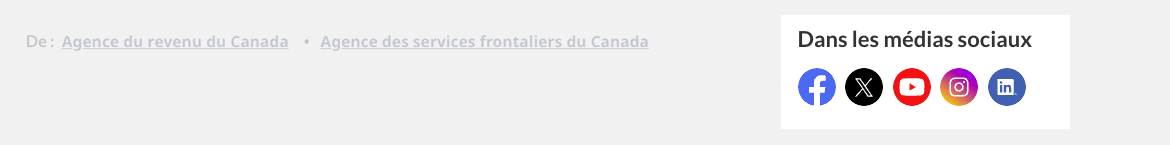
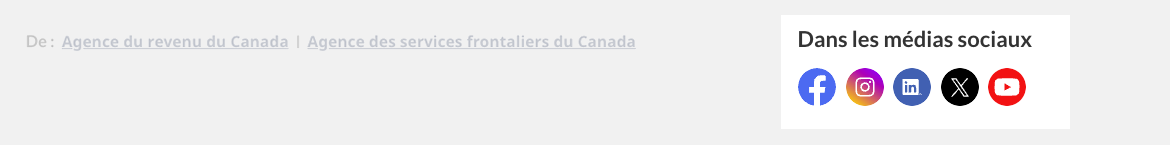
Deploy preview for PR 496 🛫

Changed region(s): [[0.7077, 0.469, 0.8923, 0.7448], [0.2462, 0.2483, 0.5538, 0.3586]]

diff --git a/pr-preview/pr-496/guide-redaction/index.html b/pr-preview/pr-496/guide-redaction/index.html
@@ -314,8 +314,8 @@
       <p>La rédaction épicène devrait être votre pratique habituelle.</p>
       <p>Pour plus de conseils sur l'écriture inclusive, consultez les lignes directrices et ressources du Portail linguistique du Canada&nbsp;:</p>
       <ul>
-        <li><a href="https://www.noslangues-ourlanguages.gc.ca/fr/cles-de-la-redaction/ecriture-inclusive-lignes-directrices-ressources">Écriture inclusive – Lignes directrices et ressources</a>, du Bureau de la traduction (en français seulement).</li>
-        <li><a href="https://www.noslangues-ourlanguages.gc.ca/en/writing-tips-plus/inclusive-writing-guidelines-resources">Inclusive writing in English</a> (en anglais seulement).</li>
+        <li><a href="https://www.noslangues-ourlanguages.gc.ca/fr/cles-de-la-redaction/ecriture-inclusive-lignes-directrices-ressources">Écriture inclusive – Lignes directrices et ressources (en français seulement)</a>, du Bureau de la traduction.</li>
+        <li><a href="https://www.noslangues-ourlanguages.gc.ca/en/writing-tips-plus/inclusive-writing-guidelines-resources"><span lang="en">Inclusive writing in English</span> (en anglais seulement)</a>.</li>
       </ul>
     </section>
     <section id="wp1-2-2">
@@ -344,7 +344,7 @@
       <p>Votre contenu sera lu sur des écrans de toutes tailles. Les écrans de téléphone mobile et de tablettes électroniques affichent moins de contenu à la fois que les écrans d'ordinateur de bureau ou portatif. Les utilisateurs de petits écrans doivent donc&nbsp;:</p>
       <ul>
         <li>faire plus d'efforts que d'autres pour accéder à la même quantité d'information;</li>
-        <li>se fier à leur mémoire pour <a href="https://www.nngroup.com/articles/mobile-ux/">se rappeler l'information non visible à l'écran</a> (en anglais seulement).</li>
+        <li>se fier à leur mémoire pour <a href="https://www.nngroup.com/articles/mobile-ux/">se rappeler l'information non visible à l'écran (en anglais seulement)</a>.</li>
       </ul>
     </section>
   </section>
@@ -660,8 +660,8 @@
       <li><a href="http://www.bing.com/toolbox/keywords">Bing recherche de mots clés (compte Microsoft requis)</a></li>
       <li><a href="https://trends.google.fr/trends/">Tendances de recherche Google Trends (aucun compte requis)</a></li>
       <li><a href="https://business.google.com/ca-fr/google-ads/">Google Keyword Planner (compte GoogleAdWords requis)</a></li>
-      <li><a href="https://www.thehoth.com/google-keyword-planner?">Hoth Free Google Keyword Planner (en anglais seulement; aucun compte requis)</a></li>
-      <li><a href="https://moz.com/explorer">Moz Keyword Explorer (en anglais seulement)</a></li>
+      <li><a href="https://www.thehoth.com/google-keyword-planner?"><span lang="en">Hoth Free Google Keyword Planner</span> (en anglais seulement; aucun compte requis)</a></li>
+      <li><a href="https://moz.com/explorer"><span lang="en">Moz Keyword Explorer</span> (en anglais seulement)</a></li>
     </ul>
     <p>Certains de ces outils ne sont offerts qu’en anglais, et d’autres sont offerts en français si votre navigateur est configuré en français.</p>
     <p>Consultez vos données d’analyse Web pour savoir quels termes votre public utilise pour chercher du contenu connexe.</p>
@@ -888,7 +888,7 @@
       <p>Nommez l'autre organisation par son nom lorsque votre contenu y fait référence.</p>
       <h5>Exemple d'énoncé faisant référence à une tierce partie</h5>
       <p><strong>Écrivez</strong>&nbsp;: Si vous prévoyez <a href="https://www.cbp.gov/travel">vous rendre aux États-Unis ou transiter par les États-Unis</a>, (en anglais seulement), renseignez-vous sur les règles édictées par l'organisme U.S. Customs and Border Protection. <br />
-        <strong>Au lieu de</strong>&nbsp;: Si vous prévoyez vous rendre aux États Unis, travailler, étudier, mener des activités commerciales, immigrer ou transiter par les États Unis, vous pourriez faire l'objet d'une inspection ou être tenus de soumettre des documents de voyage. Visitez le <a href="http://www.cbp.gov/travel">site Web de U.S. Customs and Border Protection</a> (en anglais seulement) pour des renseignements sur la U.S. Western Hemisphere Travel Initiative et les exigences pour entrer aux États Unis. </p>
+        <strong>Au lieu de</strong>&nbsp;: Si vous prévoyez vous rendre aux États Unis, travailler, étudier, mener des activités commerciales, immigrer ou transiter par les États Unis, vous pourriez faire l'objet d'une inspection ou être tenus de soumettre des documents de voyage. Visitez le <a href="http://www.cbp.gov/travel"><span lang="en">site Web de U.S. Customs and Border Protection</span> (en anglais seulement)</a> pour des renseignements sur la U.S. Western Hemisphere Travel Initiative et les exigences pour entrer aux États Unis.</p>
     </section>
     <h4>Voyez comment cette règle s’applique en anglais&nbsp;:</h4>
     <ul>
@@ -2438,7 +2438,7 @@
             <li><a href="#">Texte en hyperlien (en inuktitut seulement).</a></li>
             <li><a href="#">Texte en hyperlien (en espagnol et portugais seulement).</a></li>
           </ul>
-          <p><strong>Exemple</strong>&nbsp;: L’article 508 révisé, la norme EN 301 549 ou les <span lang="en"><a href="https://www.w3.org/TR/WCAG/">Web Content Accessibility Guidelines (WCAG) (en anglais seulement)</a></span>.</p>
+          <p><strong>Exemple</strong>&nbsp;: L’article 508 révisé, la norme EN 301 549 ou les <a href="https://www.w3.org/TR/WCAG/"><span lang="en">Web Content Accessibility Guidelines (WCAG)</span> (en anglais seulement)</a>.</p>
           <p class="mrgn-tp-md">Suivez la même structure pour les pages en anglais qui renvoient à un contenu en français. Par exemple&nbsp;:</p>
           <ul>
             <li><a href="https://www.quebec.ca/en/health/health-system-and-services/pre-hospital-emergency-services/what-to-do-emergency-requiring-ambulance#c244124">Utilisation d’un défibrillateur externe automatisé (DEA) (en français seulement)</a></li>
@@ -2446,12 +2446,12 @@
           <h5>Le lien renvoi à un contenu audio ou vidéo</h5>
           <p>Précisez la durée du contenu entre parenthèses. Par exemple&nbsp;:</p>
           <ul>
-            <li><span lang="en"><a href="https://www.youtube.com/watch?v=GbDT6FxQ6mk">Using Magnifier in Windows: At a Glance - Vidéo YouTube (2:07 minutes) (en anglais seulement)</a></span>.</li>
+            <li><a href="https://www.youtube.com/watch?v=GbDT6FxQ6mk"><span lang="en">Using Magnifier in Windows: At a Glance - Vidéo YouTube (2:07 minutes)</span> (en anglais seulement)</a>.</li>
           </ul>
           <h5>Lorsque plus d’une de ces situations s’appliquent</h5>
           <p>Ajoutez toutes les informations contextuelles nécessaires entre parenthèses. Par exemple&nbsp;:</p>
           <ul>
-            <li><a href="https://assets.publishing.service.gov.uk/media/5a81a5d3ed915d74e33ff566/OS_Form_010.pdf">Complétez votre demande : United Kingdom passport application (en anglais seulement, PDF, 214 Ko, 4 pages)</a>. </li>
+            <li><a href="https://assets.publishing.service.gov.uk/media/5a81a5d3ed915d74e33ff566/OS_Form_010.pdf">Complétez votre demande : <span lang="en">United Kingdom passport application</span> (en anglais seulement, PDF, 214 Ko, 4 pages)</a>. </li>
           </ul>
     </section>
     <h4>Voyez comment cette règle s’applique en anglais&nbsp;:</h4>
@@ -3284,18 +3284,18 @@
     <li><a href="http://www.statcan.gc.ca/daily-quotidien/160518/dq160518b-fra.htm">Étude&nbsp;: Littératie et numératie chez les Premières Nations vivant hors réserve et les Métis, 2012</a>, Statistique Canada</li>
     <li><a href="https://tecfa.unige.ch/tecfa/maltt/cosys-2/textes/ergolab_lisibilite_web.pdf">Faciliter la lecture d'informations sur le web (PDF, 183 Ko)</a>, Ergolab</li>
     <li><a href="http://w3.uqo.ca/litteratie/documents/guide2011_000.pdf">Guide de rédaction pour une information accessible (PDF, 3.9 Mo)</a>, Équipe de recherche en littératie et inclusion</li>
-    <li><a href="https://www.nngroup.com/articles/how-users-read-on-the-web/">How Users Read on the Web</a> (en anglais seulement), Jakob Nielsen, Nielsen Norman Group</li>
+    <li><a href="https://www.nngroup.com/articles/how-users-read-on-the-web/"><span lang="en">How Users Read on the Web</span> (en anglais seulement)</a>, Jakob Nielsen, Nielsen Norman Group</li>
     <li><a href="http://bdl.oqlf.gouv.qc.ca/bdl/gabarit_bdl.asp?t1=1&amp;id=4208">Impératif et infinitif</a>, Office québécois de la langue française</li>
     <li><a href="http://ccat-ctac.org/CMFiles/Publication/CCAT-FR.pdf">Introduction à la justice administrative et au langage clair (PDF, 799 Ko)</a>, Conseil des tribunaux administratifs canadiens</li>
-    <li><a href="https://www.gov.uk/guidance/content-design/what-is-content-design">Introduction to content design</a> (en anglais seulement), Government Digital Service, GOV.UK</li>
+    <li><a href="https://www.gov.uk/guidance/content-design/what-is-content-design"><span lang="en">Introduction to content design</span> (en anglais seulement)</a>, Government Digital Service, GOV.UK</li>
     <li><a href="http://www.statcan.gc.ca/pub/89-555-x/89-555-x2013001-fra.htm">Les compétences au Canada&nbsp;: Premiers résultats du Programme pour l'évaluation internationale des compétences des adultes</a>, Statistique Canada</li>
     <!-- <li><a href="http://www.vortexsolution.com/lexique-web-montreal.html">Lexique Web</a>, Vortex solution</li> no link available -->
-    <li><a href="http://abclifeliteracy.ca/workplace-literacy-facts">Literacy and Numeracy in Canada</a> (en anglais seulement), ABC Life Literacy Canada</li>
-    <li><a href="https://www.nngroup.com/articles/writing-for-lower-literacy-users/">Lower-Literacy Users: Writing for a Broad Consumer Audience</a> (en anglais seulement), Jakob Nielsen, Nielsen Norman Group</li>
-    <li><a href="https://www.nngroup.com/articles/minimize-cognitive-load/">Minimize Cognitive Load to Maximize Usability</a> (en anglais seulement), Kathryn Whitenton, Nielsen Norman Group</li>
-    <li><a href="https://www.nngroup.com/articles/mobile-ux/">Mobile User Experience: Limitations and Strengths</a> (en anglais seulement), Raluca Budio, Nielsen Norman Group</li>
-    <li><a href="http://plainlanguagenetwork.org/">Plain Language Association International</a> (en anglais seulement)</li>
-    <li><a href="https://www.navigator.ca/plain-language-please-heres-why-to-avoid-marketese-online/">Plain Language, Please! Here's Why to Avoid "Marketese" Only</a> (en anglais seulement), Sarah Bauer</li>
+    <li><a href="http://abclifeliteracy.ca/workplace-literacy-facts"><span lang="en">Literacy and Numeracy in Canada</span> (en anglais seulement)</a>, ABC Life Literacy Canada</li>
+    <li><a href="https://www.nngroup.com/articles/writing-for-lower-literacy-users/"><span lang="en">Lower-Literacy Users: Writing for a Broad Consumer Audience</span> (en anglais seulement)</a>, Jakob Nielsen, Nielsen Norman Group</li>
+    <li><a href="https://www.nngroup.com/articles/minimize-cognitive-load/"><span lang="en">Minimize Cognitive Load to Maximize Usability</span> (en anglais seulement)</a>, Kathryn Whitenton, Nielsen Norman Group</li>
+    <li><a href="https://www.nngroup.com/articles/mobile-ux/"><span lang="en">Mobile User Experience: Limitations and Strengths</span> (en anglais seulement)</a>, Raluca Budio, Nielsen Norman Group</li>
+    <li><a href="http://plainlanguagenetwork.org/"><span lang="en">Plain Language Association International</span> (en anglais seulement)</a></li>
+    <li><a href="https://www.navigator.ca/plain-language-please-heres-why-to-avoid-marketese-online/"><span lang="en">Plain Language, Please! Here's Why to Avoid "Marketese" Only</span> (en anglais seulement)</a>, Sarah Bauer</li>
     <li><a href="http://publications.gc.ca/site/fra/9.678667/publication.html">Pour un style clair et simple</a>, Travaux publics et services gouvernementaux Canada (réimprimé en 2003)</li>
     <li><a href="http://www.noslangues-ourlanguages.gc.ca/index-fra.php">Portail linguistique du Canada</a>, gouvernement du Canada</li>
     <!-- <li><a href="http://www.uottawa.ca/uoweb/sites/www.uottawa.ca.uoweb/files/principes_et_directives_lies_a_la_redaction_pour_le_web.pdf">Principes et directives liés à la rédaction pour le Web</a> (PDF), Université d'Ottawa</li> no link available -->
@@ -3303,12 +3303,12 @@
     <li><a href="http://www.w3.org/Translations/WCAG20-fr/">Règles pour l'accessibilité des contenus Web (WCAG) 2.0</a>, World Wide Web Consortium (W3C)</li>
     <li><a href="http://www.publications.gc.ca/site/eng/9.639699/publication.html">Tendons la main&nbsp;: guide pour bien communiquer avec les aînés autochtones</a>, Santé Canada</li>
     <li><a href="http://www.btb.termiumplus.gc.ca/tpv2alpha/alpha-fra.html?lang=fra&amp;index=frt">TERMIUM Plus</a>®, Bureau de la traduction</li>
-    <li><a href="http://www.musanim.com/miller1956/">The Magical Number Seven, Plus or Minus Two: Some Limits on Our Capacity for Processing</a> (en anglais seulement), George A. Miller</li>
+    <li><a href="http://www.musanim.com/miller1956/"><span lang="en">The Magical Number Seven, Plus or Minus Two: Some Limits on Our Capacity for Processing</span> (en anglais seulement)</a>, George A. Miller</li>
     <li><a href="https://www.oqlf.gouv.qc.ca/ressources/bibliotheque/officialisation/termes-officialises-index-thematique.aspx">Vocabulaire d'Internet </a> – Banque de terminologie du Québec, Index des termes français, Office québécois de la langue française</li>
     <!-- <li><a href="https://gathercontent.com/blog/use-pair-writing-to-collaborate-with-subject-matter-experts">Use pair writing to collaborate with subject matter experts</a> (en anglais seulement), Jonathan Kahn, GatherContent</li> no link available -->
-    <li><a href="http://www.searchenginepeople.com/blog/watch-your-punctuation-online.html">Watch Your Punctuation Online</a> (en anglais seulement), Search Engine People</li>
-    <li><a href="http://www.deque.com/blog/dont-screen-readers-read-whats-screen-part-1-punctuation-typographic-symbols/">Why Don't Screen Readers Always Read What's on the Screen?</a> (en anglais seulement), The Deque Blog</li>
-    <li><a href="https://www.nngroup.com/topic/writing-web/">Writing for the Web</a> (en anglais seulement), Nielsen Norman Group</li>
+    <li><a href="http://www.searchenginepeople.com/blog/watch-your-punctuation-online.html"><span lang="en">Watch Your Punctuation Online</span> (en anglais seulement)</a>, Search Engine People</li>
+    <li><a href="http://www.deque.com/blog/dont-screen-readers-read-whats-screen-part-1-punctuation-typographic-symbols/"><span lang="en">Why Don't Screen Readers Always Read What's on the Screen?</span> (en anglais seulement)</a>, The Deque Blog</li>
+    <li><a href="https://www.nngroup.com/topic/writing-web/"><span lang="en">Writing for the Web</span> (en anglais seulement)</a>, Nielsen Norman Group</li>
   </ul>
 </section>
 <aside class="wb-fnote" role="note">

diff --git a/pr-preview/pr-496/configurations-conception-communes/outil-retroaction.html b/pr-preview/pr-496/configurations-conception-communes/outil-retroaction.html
@@ -381,61 +381,7 @@
           <li><a href="https://wet-boew.github.io/GCWeb/sites/feedback/feedback-docs-fr.html">Configuration de Rétroaction GC (par défaut)</a></li>
           <li><a href="https://wet-boew.github.io/GCWeb/sites/feedback/feedback-docs-fr.html">Rétroaction GC avec lien de contact</a></li>
         </ul>
-        <h4>Ajout des valeurs masquées obligatoires</h4>
-        <p>Mise à jour des données pour les acronymes institutionnels. Il s'agit d'une valeur unilingue. Entrez la valeur en anglais, tant pour vos pages en anglais que celles en français.</p>
-        <h5>Acronymes des institutions Canada.ca</h5>
-        <ul>
-          <li><strong>AAFC</strong> (Agriculture et Agroalimentaire Canada)</li>
-          <li><strong>ATSSC</strong> (Service canadien d’appui aux tribunaux administratifs)</li>
-          <li><strong>CATSA</strong> (Administration canadienne de la sûreté du transport aérien)</li>
-          <li><strong>CFIA</strong> (Agence canadienne d'inspection des aliments)</li>
-          <li><strong>CIRNAC</strong> (Relations Couronne-Autochtones et Affaires du Nord Canada)</li>
-          <li><strong>NSERC</strong> (Conseil de recherches en sciences naturelles et en génie du Canada)</li>
-          <li><strong>CBSA</strong> (Agence des services frontaliers du Canada)</li>
-          <li><strong>CCG</strong> (Garde côtière canadienne)</li>
-          <li><strong>CGC</strong> (Commission canadienne des grains)</li>
-          <li><strong>CIHR</strong> (Instituts de recherche en santé du Canada)</li>
-          <li><strong>CIPO</strong> (Office de la propriété intellectuelle du Canada)</li>
-          <li><strong>CRA</strong> (Agence du revenu du Canada)</li>
-          <li><strong>CRTC</strong> (Conseil de la radiodiffusion et des télécommunications canadiennes)</li>
-          <li><strong>CSA</strong> (Agence spatiale canadienne)</li>
-          <li><strong>CSEC</strong> (Centre de la sécurité des télécommunications)</li>
-          <li><strong>CSPS</strong> (École de la fonction publique du Canada)</li>
-          <li><strong>DFO</strong> (Pêches et Océans Canada)</li>
-          <li><strong>DND</strong> (Le ministère de la Défense nationale)</li>
-          <li><strong>ECCC</strong> (Environnement et Changement climatique Canada)</li>
-          <li><strong>ESDC</strong> (Emploi et Développement social Canada)</li>
-          <li><strong>FCAC</strong> (Agence de la consommation en matière financière du Canada)</li>
-          <li><strong>FIN</strong> (Ministère des Finances Canada)</li>
-          <li><strong>GAC</strong> (Affaires mondiales Canada)</li>
-          <li><strong>HC</strong> (Santé Canada)</li>
-          <li><strong>INFC</strong> (Infrastructure Canada)</li>
-          <li><strong>IRCC</strong> (Immigration, Réfugiés et Citoyenneté Canada)</li>
-          <li><strong>ISC</strong> (Services aux Autochtones Canada)</li>
-          <li><strong>ISED</strong> (Innovation, Sciences et Développement économique Canada)</li>
-          <li><strong>JUS</strong> (Ministère de la Justice Canada)</li>
-          <li><strong>LAC</strong> (Bibliothèque et Archives Canada)</li>
-          <li><strong>NFB</strong> (Office national du film du Canada)</li>
-          <li><strong>NRC</strong> (Conseil national de recherches Canada)</li>
-          <li><strong>NRCan</strong> (Ressources naturelles Canada)</li>
-          <li><strong>OSB</strong> (Bureau du surintendant des faillites)</li>
-          <li><strong>PBC</strong> (Commission des libérations conditionnelles du Canada)</li>
-          <li><strong>PC</strong> (Parcs Canada)</li>
-          <li><strong>PCH</strong> (Patrimoine canadien)</li>
-          <li><strong>PCO</strong> (Bureau du Conseil privé)</li>
-          <li><strong>PHAC</strong> (Agence de la santé publique du Canada)</li>
-          <li><strong>PS</strong> (Sécurité publique Canada)</li>
-          <li><strong>PSC</strong> (Commission de la fonction publique du Canada)</li>
-          <li><strong>SSC</strong> (Services partagés Canada)</li>
-          <li><strong>PSPC</strong> (Services publics et Approvisionnement Canada)</li>
-          <li><strong>RCMP</strong> (Gendarmerie royale du Canada)</li>
-          <li><strong>StatCan</strong> (Statistique Canada)</li>
-          <li><strong>TBS</strong> (Secrétariat du Conseil du Trésor du Canada)</li>
-          <li><strong>TC</strong> (Transports Canada)</li>
-          <li><strong>VAC</strong> (Anciens Combattants Canada)</li>
-          <li><strong>WAGE</strong> (Femmes et Égalité des genres Canada)</li>
-          <li><strong>WD</strong> (Diversification de l'économie de l'Ouest Canada)</li>
-        </ul>
+      
         <h4><span class="label label-primary">Recommandé</span> Ajouter une valeur masquée d'un &laquo;&nbsp;Thème&nbsp;&raquo; dans le code de l'outil de rétroaction</h4>
         <p>Ceci peut vous être utile si vous souhaitez télécharger de la rétroaction pour des pages de tout un thème en même temps.</p>
         <p>Dans la plupart des cas, vous devriez inclure le thème &laquo;&nbsp;Canada.ca&nbsp;&raquo; pour votre contenu (vous trouverez la liste complète ci-dessous).</p>

diff --git a/pr-preview/pr-496/configurations-conception-communes/bloc-medias-sociaux.html b/pr-preview/pr-496/configurations-conception-communes/bloc-medias-sociaux.html
@@ -18,7 +18,7 @@
 		<meta name="dcterms.accessRights" content="2" />
 		<meta name="gcaaterms.sitename" content="ESDC-EDSC_CanadacaDesign-ConceptionCanadaca" />
 		<meta name="dcterms.issued" title="W3CDTF" content="2018-12-19"/>
-		<meta name="dcterms.modified" title="W3CDTF" content="2026-01-16"/>
+		<meta name="dcterms.modified" title="W3CDTF" content="2026-01-30"/>
 		<meta name="generator" content="Jekyll v4.3.2" />
 		<meta name="google-site-verification" content="Nt_CftRIypA9xVS7Znb2VkrsYbtIDuFWHryxSAC6OwM" />
 		<meta name="yandex-verification" content="4dda5b1b6e392d83" />
@@ -176,7 +176,7 @@
 				<span>Chaînes de médias sociaux</span>: <span>Conception de Canada.ca</span>
 			</span>
 		</h1><!-- Custom code ends here -->
-		<p><strong>Dernière mise à jour</strong>&nbsp;: 2026-01-16</p>
+		<p><strong>Dernière mise à jour</strong>&nbsp;: 2026-01-30</p>
 <p>La configuration de conception des chaînes de médias sociaux fournit des liens vers les comptes de médias sociaux officiels du gouvernement du Canada (GC).</p>
 <div class="pattern-demo mrgn-tp-lg mrgn-bttm-xl"><img src="/images/social-media-vertical-mask-fr.png" class="img-responsive" alt="" /></div>
 <section>
@@ -457,7 +457,7 @@
 <section id="changements">
   <h2>Derniers changements</h2>
   <dl class="dl-horizontal">
-   <dt><time>2026-01-16</time></dt>
+   <dt><time>2026-01-30</time></dt>
     <dd> L’orientation qui précise que d’autres icônes de médias sociaux peuvent être utilisées et qu’elles peuvent être placées dans un autre ordre a été mise à jour.</dd>
     <dt><time>2025-05-15</time></dt>
     <dd>Mise à jour des caractéristiques typographiques en parallèle avec les activités d'alignement pour GCWeb et le Système de design GC.</dd>
@@ -482,7 +482,7 @@
 		</div>
 	</div><dl id="wb-dtmd">
 	<dt>Date de modification&#160;:</dt>
-	<dd><time property="dateModified">2026-01-16</time></dd>
+	<dd><time property="dateModified">2026-01-30</time></dd>
 </dl>
 </section>
 

diff --git a/pr-preview/pr-496/a-propos/derniers-changements.html b/pr-preview/pr-496/a-propos/derniers-changements.html
@@ -18,7 +18,7 @@
 		<meta name="dcterms.accessRights" content="2" />
 		<meta name="gcaaterms.sitename" content="ESDC-EDSC_CanadacaDesign-ConceptionCanadaca" />
 		<meta name="dcterms.issued" title="W3CDTF" content="2020-10-30"/>
-		<meta name="dcterms.modified" title="W3CDTF" content="2026-01-16"/>
+		<meta name="dcterms.modified" title="W3CDTF" content="2026-01-30"/>
 		<meta name="generator" content="Jekyll v4.3.2" />
 		<meta name="google-site-verification" content="Nt_CftRIypA9xVS7Znb2VkrsYbtIDuFWHryxSAC6OwM" />
 		<meta name="yandex-verification" content="4dda5b1b6e392d83" />
@@ -175,7 +175,7 @@
 </div>
 <div id="expand-collapse">
 <details open="open">
-    <summary><time datetime="2026-01-16">16 janvier 2026</time></summary>
+    <summary><time datetime="2026-01-30">30 janvier 2026</time></summary>
     <p>L’orientation relative aux médias sociaux a été mise à jour afin d’y préciser que d’autres icônes de médias sociaux peuvent être utilisées et qu’elles peuvent être placées dans un autre ordre.</p>
   </details>
 <details>
@@ -495,7 +495,7 @@
 		</div>
 	</div><dl id="wb-dtmd">
 	<dt>Date de modification&#160;:</dt>
-	<dd><time property="dateModified">2026-01-16</time></dd>
+	<dd><time property="dateModified">2026-01-30</time></dd>
 </dl>
 </section>
 
